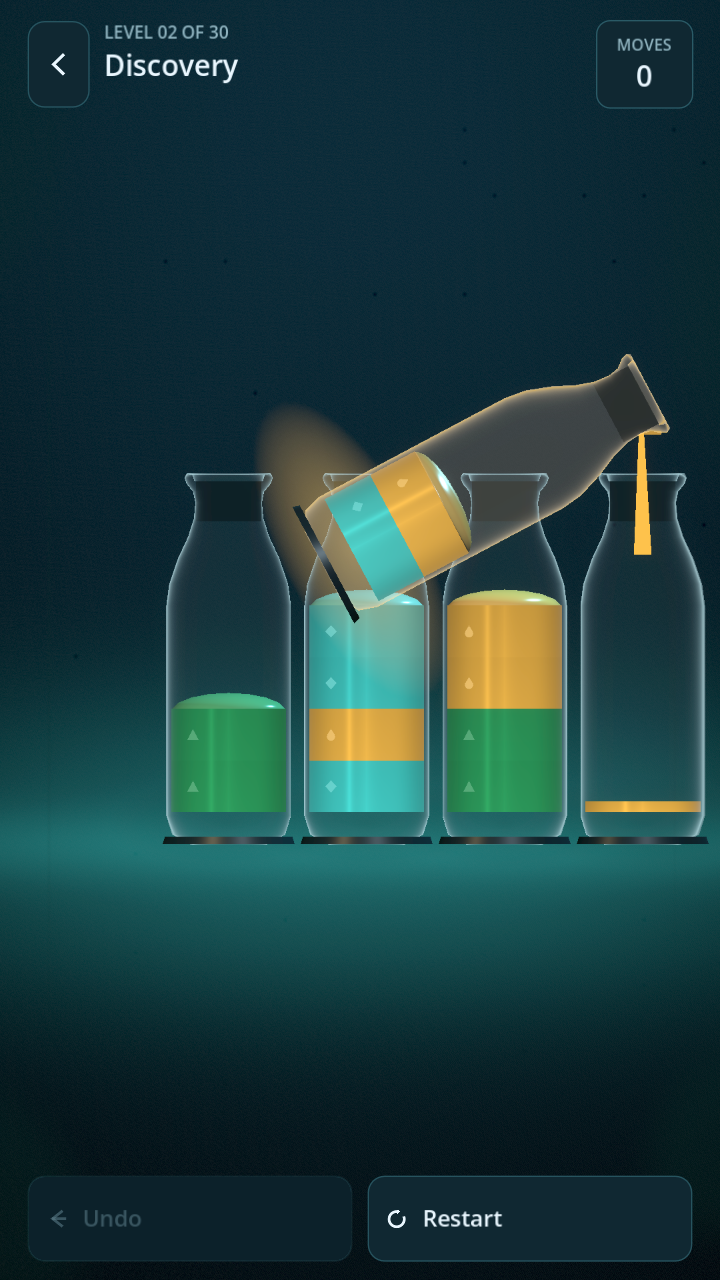
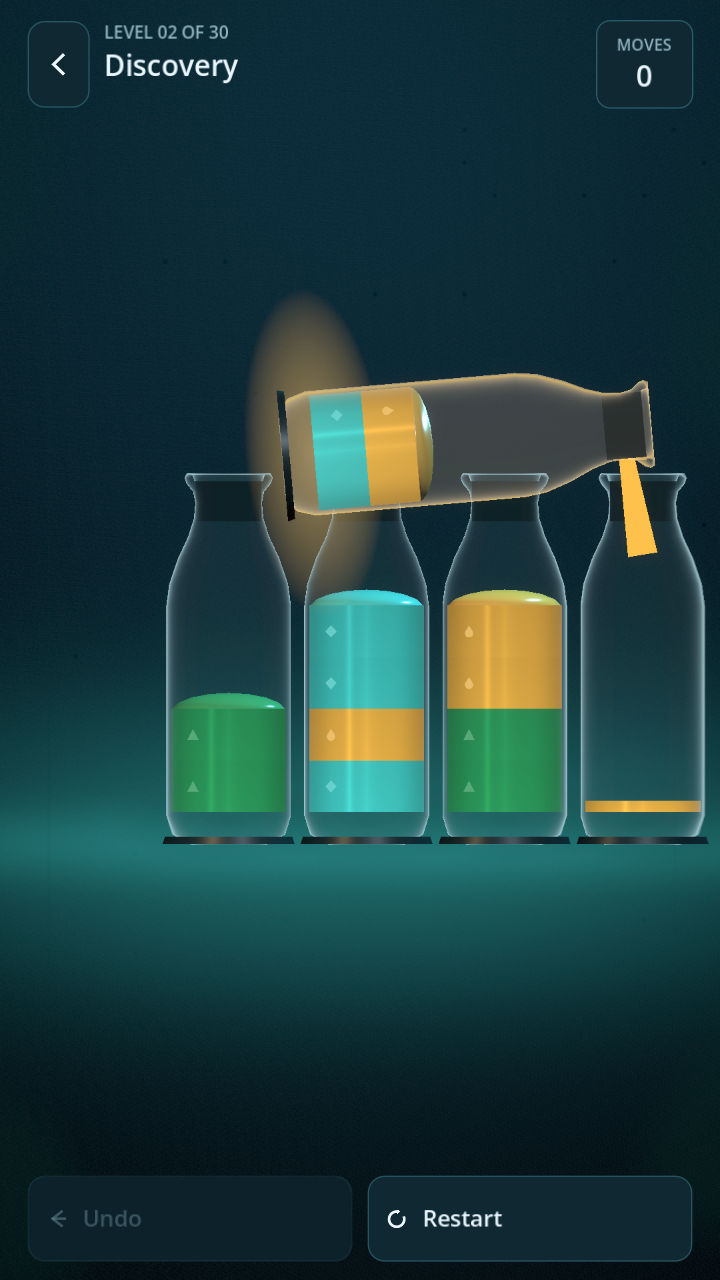
feat: 200 percent volume ceiling, per-channel mute, and water with no seams
Owner feedback from the phone: the game is very quiet, and the liquid reads as
four stacked squares rather than one body of water.

Volume:
- sliders now run 0-200 %. 200 % is +6 dB over the authored level, which does not
  clip: the effects peak near -11 dBFS and the music bed at -11.7 dBFS.
- music and effects each get their own mute, stored separately from the global
  mute, so a player can silence the effects and keep the music or the reverse.
- all four values persist in progress.json; older saves load at 100 %, unmuted.

Water:
- the seam term is zeroed. Bands are separate cylinders, and any darkening at
  their top and bottom edges turns a stack of one colour into visible squares.
  With it off, same-colour bands merge into a single body and only a colour
  change shows a boundary, which is what real liquid in a tube does.
- top_light and bottom_dim are zeroed for the same reason.

Gate: 136 / 154 / 153 / 30, exit 0.

Changed region(s): [[0.3361, 0.2188, 0.9472, 0.5312]]

diff --git a/tools/drive_device.py b/tools/drive_device.py
@@ -1,0 +1,180 @@
+#!/usr/bin/env python3
+"""Drive the game on a connected Android device through its levels.
+
+Tap coordinates are not guessed: the game is 1080 design pixels wide and the S23
+Ultra panel is 1080 physical pixels wide, so scale is exactly 1 and vessel
+centres come from the same BoardLayout maths the game uses.
+
+Wireless ADB drops when the phone sleeps and comes back on a different port, so
+every level re-checks the device and wakes it. A tap into a dead connection looks
+identical to a working run -- an earlier attempt "played" 28 levels against a
+phone that had disconnected, so liveness is checked, not assumed.
+
+Usage:
+    py -3.12 -u tools/drive_device.py --level 2 --shot out.png
+    py -3.12 -u tools/drive_device.py --from 3 --to 30 --next-y 806 --snapdir shots
+"""
+
+from __future__ import annotations
+
+import argparse
+import json
+import subprocess
+import sys
+import time
+from pathlib import Path
+
+ROOT = Path(__file__).resolve().parent.parent
+SOLUTIONS = ROOT / "godot" / "tests" / "solutions.json"
+LEVELS = ROOT / "godot" / "levels"
+ADB = Path.home() / "AppData" / "Local" / "Android" / "Sdk" / "platform-tools" / "adb.exe"
+
+DESIGN_W = 1080.0
+VESSEL_WORLD_W = 0.172
+VESSEL_WORLD_H = 0.512
+VESSEL_GAP = 20.0
+WIDTH_FRACTION = 0.94
+BASELINE_FRACTION = 0.66
+MAX_HEIGHT_FRACTION = 0.46
+
+
+def adb(*args: str, timeout: int = 45) -> str:
+    try:
+        r = subprocess.run([str(ADB), *args], capture_output=True, text=True, timeout=timeout)
+        return (r.stdout or "") + (r.stderr or "")
+    except subprocess.TimeoutExpired:
+        return ""
+
+
+def connected() -> bool:
+    out = adb("devices")
+    for line in out.splitlines()[1:]:
+        if "\tdevice" in line and "offline" not in line:
+            return True
+    return False
+
+
+def ensure_device() -> bool:
+    if connected():
+        adb("shell", "input", "keyevent", "KEYCODE_WAKEUP")
+        return True
+    print("  device gone; rediscovering ...", flush=True)
+    for line in adb("mdns", "services").splitlines():
+        if "_adb-tls-connect._tcp" in line:
+            endpoint = line.split()[-1]
+            print(f"  connecting to {endpoint}", flush=True)
+            adb("connect", endpoint)
+            time.sleep(3)
+            if connected():
+                return True
+    return False
+
+
+def screen_size() -> tuple[int, int]:
+    for line in adb("shell", "wm", "size").splitlines():
+        if ":" in line and "x" in line.split(":")[-1]:
+            w, h = line.split(":")[-1].strip().split("x")
+            return int(w), int(h)
+    return 1080, 2316
+
+
+def tap(x: float, y: float) -> None:
+    adb("shell", "input", "tap", str(int(round(x))), str(int(round(y))))
+
+
+def layout(tubes: int, viewport: tuple[int, int]) -> dict:
+    vw, vh = viewport
+    sx = vw / DESIGN_W
+    design_h = vh / sx
+    usable = DESIGN_W * WIDTH_FRACTION
+    ppu_w = (usable - (tubes - 1) * VESSEL_GAP) / (tubes * VESSEL_WORLD_W)
+    ppu_h = design_h * MAX_HEIGHT_FRACTION / VESSEL_WORLD_H
+    ppu = max(1.0, min(ppu_w, ppu_h))
+    vessel_w = VESSEL_WORLD_W * ppu
+    slot = vessel_w + VESSEL_GAP
+    total = tubes * slot - VESSEL_GAP
+    start = (DESIGN_W - total) * 0.5
+    centres = [start + slot * (i + 0.5) for i in range(tubes)]
+    baseline = design_h * BASELINE_FRACTION
+    hit_top = baseline - VESSEL_WORLD_H * ppu * 1.06
+    tap_y = hit_top + (baseline - hit_top) * 0.55
+    return {"centres": [c * sx for c in centres], "tap_y": tap_y * sx}
+
+
+def shot(path: Path) -> bool:
+    for _ in range(3):
+        adb("shell", "screencap", "-p", "/sdcard/drive.png")
+        adb("pull", "/sdcard/drive.png", str(path))
+        if path.exists() and path.stat().st_size > 2000:
+            return True
+        time.sleep(2)
+    return False
+
+
+def play_level(n: int, viewport: tuple[int, int], snap: Path | None) -> bool:
+    level = json.loads((LEVELS / f"level_{n}.json").read_text(encoding="utf-8"))
+    solutions = json.loads(SOLUTIONS.read_text(encoding="utf-8"))
+    key = f"level_{n}"
+    if key not in solutions:
+        print(f"level {n}: no recorded solution", flush=True)
+        return False
+
+    lay = layout(len(level["tubes"]), viewport)
+    moves = solutions[key]["moves"]
+    print(f"level {n:2d}: {len(level['tubes'])} tubes, {len(moves)} moves, "
+          f"tap_y={lay['tap_y']:.0f}", flush=True)
+
+    for i, m in enumerate(moves, 1):
+        if not ensure_device():
+            print(f"  ABORT: device unreachable during level {n} move {i}", flush=True)
+            return False
+        tap(lay["centres"][m["from"]], lay["tap_y"])
+        time.sleep(0.20)
+        tap(lay["centres"][m["to"]], lay["tap_y"])
+        time.sleep(1.05)          # the pour locks input for ~0.87 s
+    time.sleep(1.2)
+
+    if snap:
+        snap.mkdir(parents=True, exist_ok=True)
+        if shot(snap / f"level{n:02d}.png"):
+            print(f"  completed, screenshot saved", flush=True)
+        else:
+            print(f"  completed, screenshot FAILED", flush=True)
+    return True
+
+
+def main() -> int:
+    ap = argparse.ArgumentParser()
+    ap.add_argument("--level", type=int)
+    ap.add_argument("--from", dest="first", type=int)
+    ap.add_argument("--to", dest="last", type=int)
+    ap.add_argument("--shot")
+    ap.add_argument("--snapdir")
+    ap.add_argument("--next-x", type=int, default=540)
+    ap.add_argument("--next-y", type=int, default=0)
+    ap.add_argument("--pause", type=float, default=2.0)
+    args = ap.parse_args()
+
+    if not ADB.exists():
+        print(f"adb not found at {ADB}")
+        return 2
+    if not ensure_device():
+        print("no device reachable", flush=True)
+        return 2
+
+    vp = screen_size()
+    print(f"device screen {vp[0]}x{vp[1]}", flush=True)
+
+    levels = [args.level] if args.level else list(range(args.first or 1, (args.last or 30) + 1))
+    for i, n in enumerate(levels):
+        if not play_level(n, vp, Path(args.snapdir) if args.snapdir else (Path(args.shot) if len(levels) == 1 and args.shot else None)):
+            return 1
+        if args.next_y and i < len(levels) - 1:
+            tap(args.next_x, args.next_y)
+            time.sleep(args.pause)
+    print("finished", flush=True)
+    return 0
+
+
+if __name__ == "__main__":
+    raise SystemExit(main())
